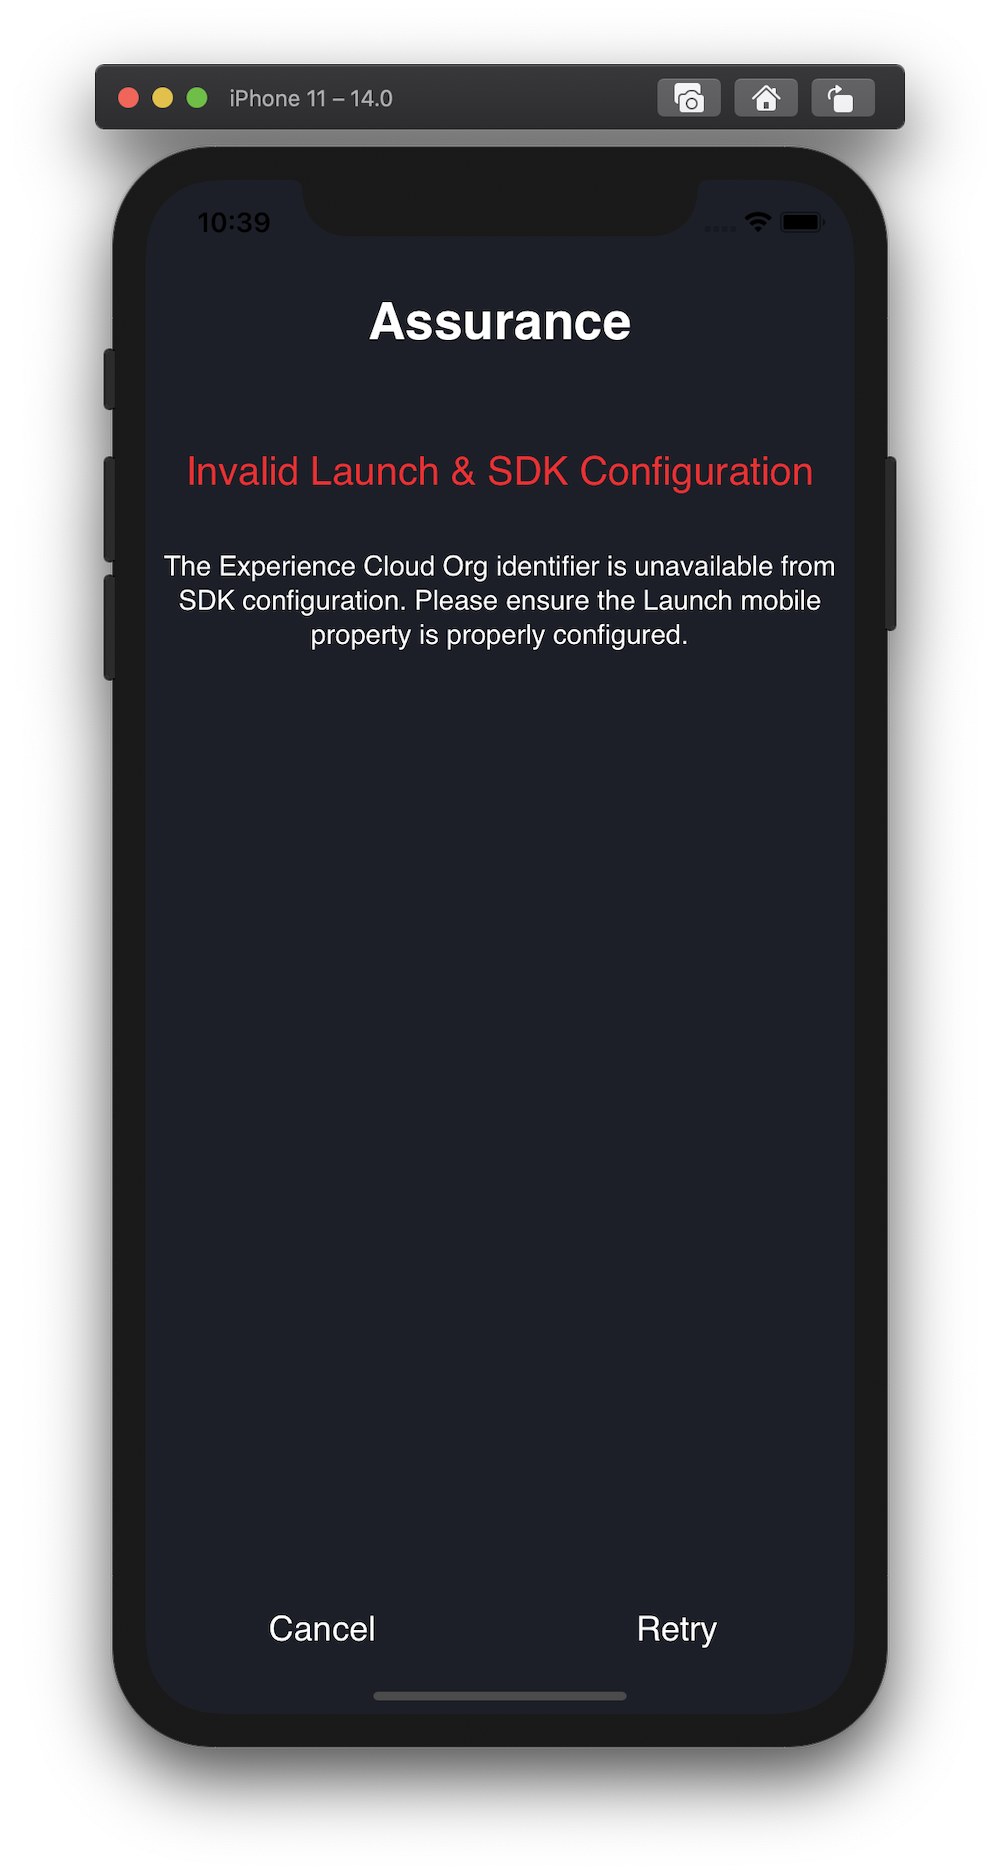
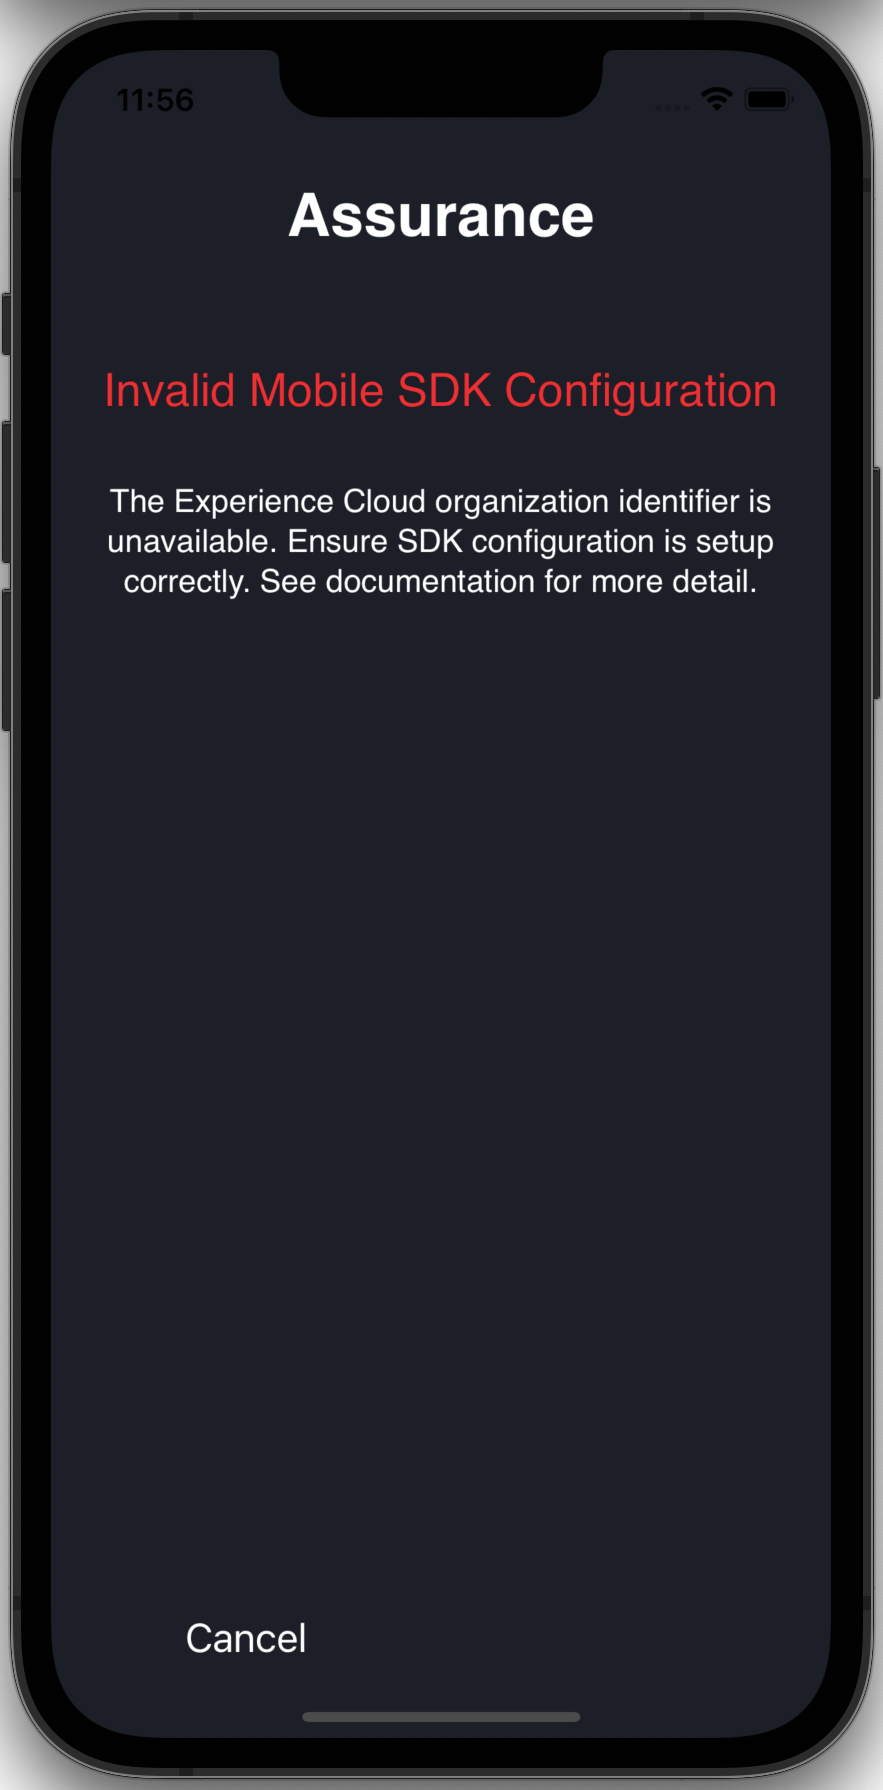
Updates assurance error logs to match SDK.

diff --git a/foundation-extensions/adobe-experience-platform-assurance/assurance-sdk-error-logs.md b/foundation-extensions/adobe-experience-platform-assurance/assurance-sdk-error-logs.md
@@ -68,13 +68,14 @@ The PIN screen may not show if the link or QR code is incorrect \(or doesn't con
 {% tabs %}
 {% tab title="Android" %}
 ```text
-W/AdobeExperienceSDK: Assurance - Not a valid Assurance deeplink, Ignorning start session API call. URL :  <deeplink URL>
+AdobeExperienceSDK: Assurance - Not a valid Assurance deeplink, Ignorning start session API call. URL :  <deeplink URL>
 ```
 {% endtab %}
 
 {% tab title="iOS" %}
 ```text
-[AdobeExperienceSDK DEBUG <AEPAssurance>]: Not a valid Assurance deeplink, Ignorning start session API call. URL : <deeplink URL>
+AdobeExperienceSDK: Assurance - Not a valid Assurance deeplink, Ignorning start session API call. URL :  <deeplink URL>
+
 ```
 {% endtab %}
 {% endtabs %}
@@ -108,13 +109,13 @@ If you see a Invalid Launch & SDK Configuration error \(see screenshot below\), 
 {% tabs %}
 {% tab title="Android" %}
 ```text
-W/AdobeExperienceSDK: Assurance - Assurance connection closed. Reason: Invalid Launch & SDK Configuration, Description: The Experience Cloud Org identifier is unavailable from SDK configuration. Please ensure the Launch mobile property is properly configured.
+W/AdobeExperienceSDK: Assurance - Assurance connection closed. Reason: Invalid Configuration, Description: The Experience Cloud organization identifier is unavailable from the SDK. Ensure SDK configuration is setup correctly. See documentation for more detail.
 ```
 {% endtab %}
 
 {% tab title="iOS" %}
 ```text
-[AdobeExperienceSDK ERROR <AEPAssurance>]: Assurance connection closed. Reason: Invalid Launch & SDK Configuration, Description: The Experience Cloud Org identifier is unavailable from SDK configuration. Please ensure the Launch mobile property is properly configured.
+[AdobeExperienceSDK ERROR <AEPAssurance>]: Invalid Configuration, Description: The Experience Cloud organization identifier is unavailable from the SDK. Ensure SDK configuration is setup correctly. See documentation for more detail.
 ```
 {% endtab %}
 {% endtabs %}
@@ -130,13 +131,13 @@ This error may happen when you have access to multiple organizations in your Ado
 {% tabs %}
 {% tab title="Android" %}
 ```text
-W/AdobeExperienceSDK: Assurance - Assurance connection closed. Reason: Unauthorized Access, Description: AEP Assurance sessions and Launch mobile properties must be created in the same organization.
+W/AdobeExperienceSDK: Assurance - Assurance connection closed. Reason: Unauthorized Access, Description: The Experience Cloud organization identifier does not match with that of the Assurance session. Ensure the right Experience Cloud organization is being used. See documentation for more detail.
 ```
 {% endtab %}
 
 {% tab title="iOS" %}
 ```text
-[AdobeExperienceSDK ERROR <AEPAssurance>]: Assurance connection closed. Reason: Unauthorized Access, Description: AEP Assurance sessions and Launch mobile properties must be created in the same organization.
+[AdobeExperienceSDK ERROR <AEPAssurance>]: Assurance connection closed. Reason: Unauthorized Access, Description: The Experience Cloud organization identifier does not match with that of the Assurance session. Ensure the right Experience Cloud organization is being used. See documentation for more detail.
 ```
 {% endtab %}
 {% endtabs %}
@@ -156,7 +157,7 @@ D/AdobeExperienceSDK: Assurance - Timeout - Assurance did not receive deeplink t
 
 {% tab title="iOS" %}
 ```text
-[AdobeExperienceSDK DEBUG <AEPAssurance>]: Timeout - Assurance did not receive deeplink to start Assurance session. Shutting down Assurance extension
+[AdobeExperienceSDK DEBUG <AEPAssurance>]: Timeout - Assurance extension did not receive session url. Shutting down from processing any further events.
 ```
 {% endtab %}
 {% endtabs %}
